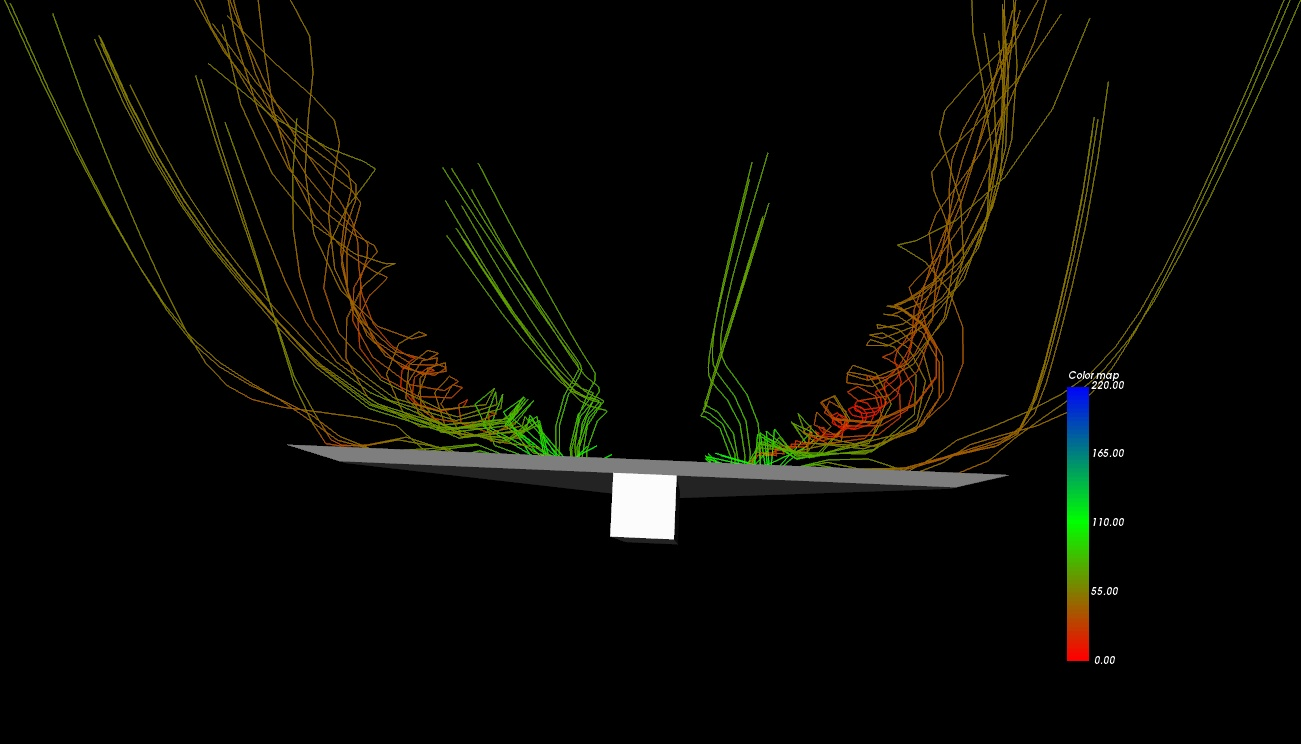
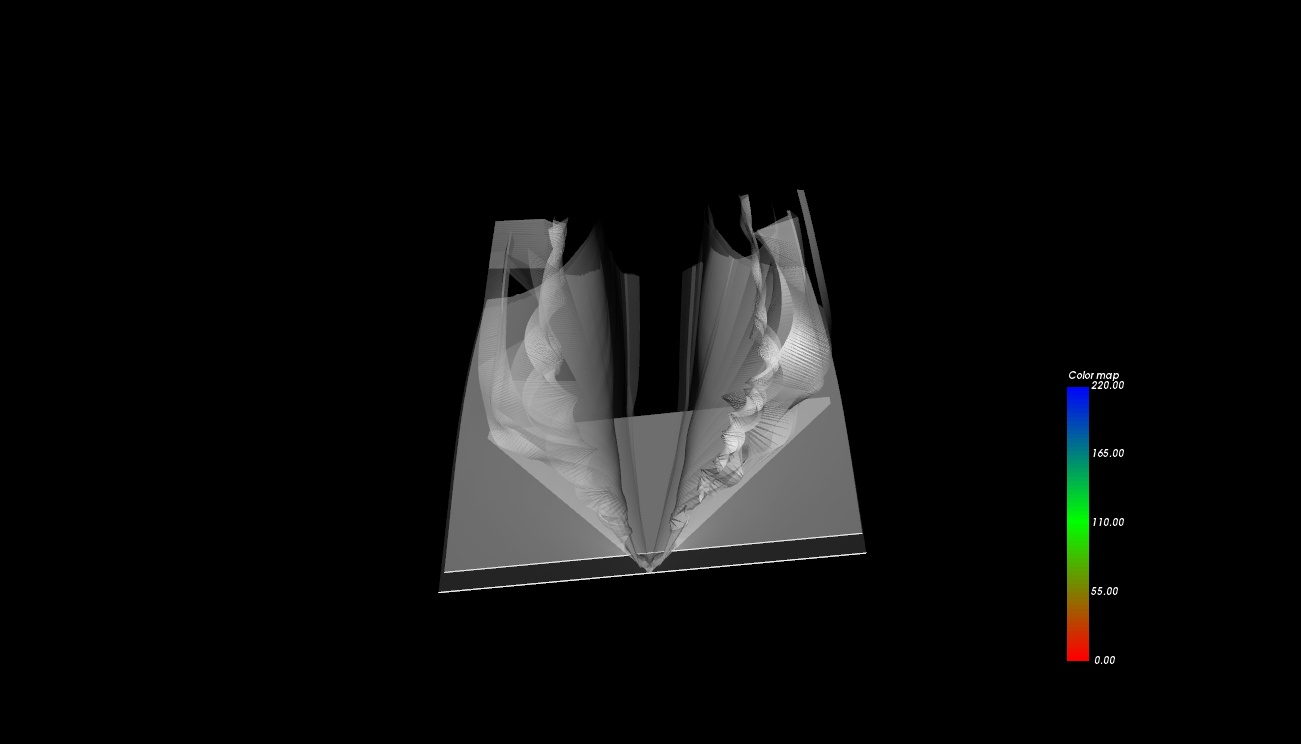
better stream surfaces

diff --git a/streamsurfaces.py b/streamsurfaces.py
@@ -35,11 +35,8 @@ class ImageModification(object):
 
         self.update_look_up_table()
 
-
-
-        self.ren.AddActor(self.create_stream_line(110,-50,0,50))
-        self.ren.AddActor(self.create_stream_line(110,50,0,50))
-
+        self.ren.AddActor(self.create_stream_line(0,150,0,0.2))
+        self.ren.AddActor(self.create_stream_line(25,150,0,0.5))
 
 
 
@@ -83,33 +80,32 @@ class ImageModification(object):
         self.arrowColor.AddRGBPoint(220, 0.0, 0.0, 1.0)
 
 
-    def create_stream_line(self,y1,y2,y3,n,r=10):
+    def create_stream_line(self,x,y,z,opa):
 
         rake = vtk.vtkLineSource()
-        rake.SetPoint1(15, -5, 32)
-        rake.SetPoint2(15, 5, 32)
-        rake.SetResolution(21)
+        rake.SetPoint1(x, -y, z)
+        rake.SetPoint2(x, y, z)
+        rake.SetResolution(150)
+
         rakeMapper = vtk.vtkPolyDataMapper()
         rakeMapper.SetInputConnection(rake.GetOutputPort())
+
+
         rakeActor = vtk.vtkActor()
         rakeActor.SetMapper(rakeMapper)
 
-        
-
-        #self.ren.AddActor(rakeActor)
+        self.ren.AddActor(rakeActor)
 
         integ = vtk.vtkRungeKutta4()
         streamline = vtk.vtkStreamLine()
         streamline.SetInputConnection(self.vec_reader.GetOutputPort())
-        streamline.SetSourceConnection(seeds.GetOutputPort())
-        streamline.SetMaximumPropagationTime(100)
-        streamline.SetIntegrationStepLength(0.05)
-        streamline.SetStepLength(0.5)
-        streamline.SpeedScalarsOn()
-        streamline.SetNumberOfThreads(1)
-        streamline.SetIntegrationDirectionToIntegrateBothDirections()
+        streamline.SetSourceConnection(rake.GetOutputPort())
         streamline.SetIntegrator(integ)
-        streamline.SetSpeedScalars(220)
+        streamline.SetMaximumPropagationTime(220)
+        streamline.SetIntegrationStepLength(0.1)
+        streamline.SetIntegrationDirectionToIntegrateBothDirections()
+        streamline.SetStepLength(0.05)
+
 
 
         scalarSurface = vtk.vtkRuledSurfaceFilter()
@@ -117,16 +113,16 @@ class ImageModification(object):
         #scalarSurface.SetOffset(0)
         #scalarSurface.SetOnRatio(2)
         #scalarSurface.PassLinesOn()
-        #scalarSurface.SetRuledModeToPointWalk()
-        scalarSurface.SetDistanceFactor(30)
-
+        scalarSurface.SetRuledModeToPointWalk()
+        scalarSurface.SetDistanceFactor(100)
         mapper = vtk.vtkPolyDataMapper()
         mapper.SetInputConnection(scalarSurface.GetOutputPort())
-        #mapper.SetScalarRange(self.vec_reader.GetScalarRange())
+        mapper.SetScalarRange(self.vec_reader.GetOutput().GetScalarRange())
         mapper.SetLookupTable(self.arrowColor)
 
         actor = vtk.vtkActor()
         actor.SetMapper(mapper)
+        actor.GetProperty().SetOpacity(opa)
 
         return actor
 
